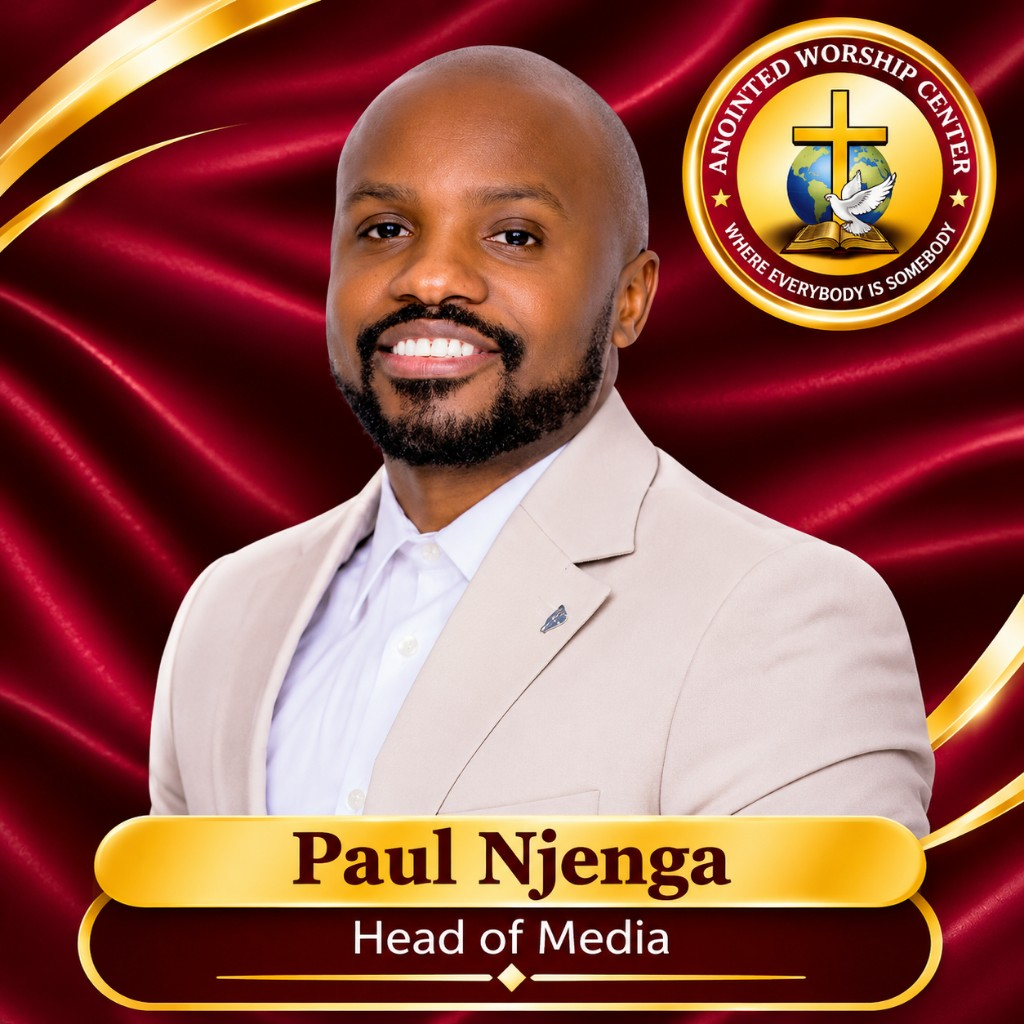
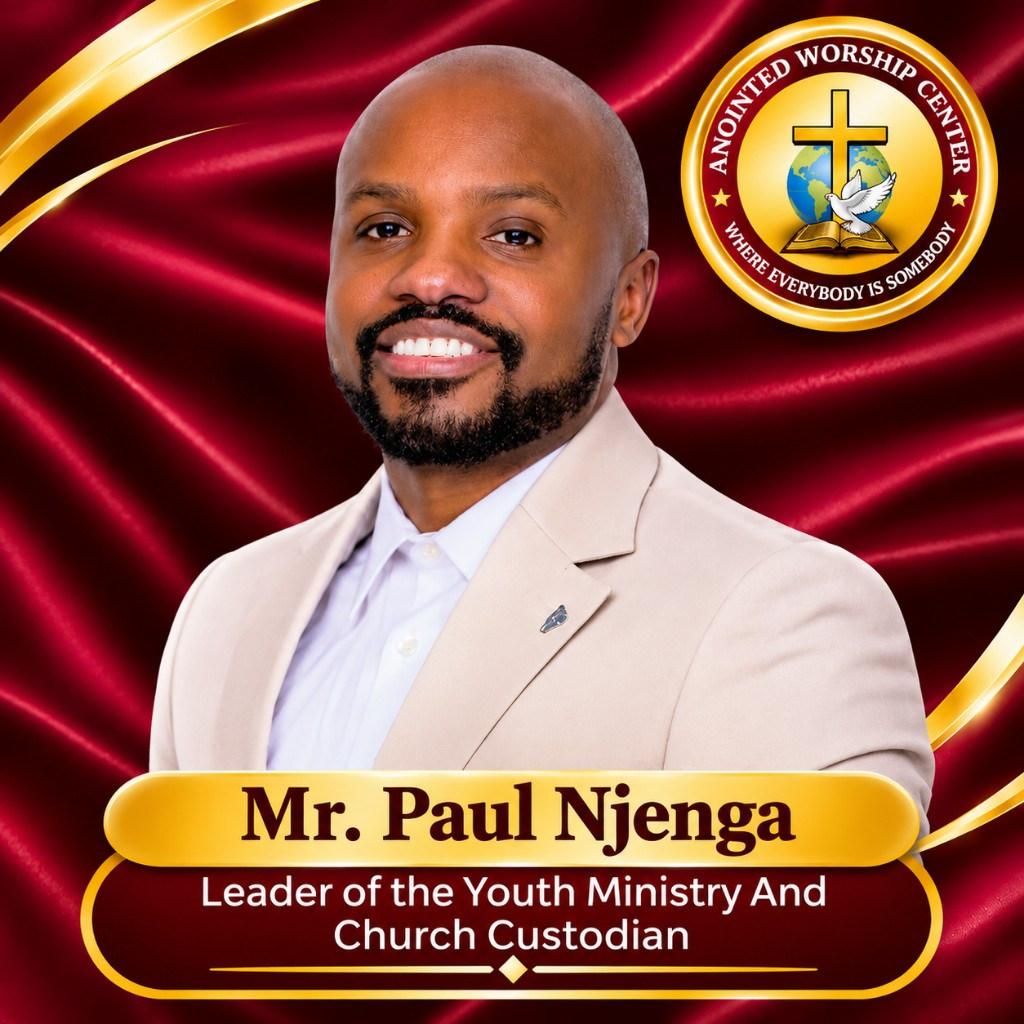
Fix Paul Njenga portrait and add Sarah Bogere to Ministry Leaders.
Replace Paul's incorrect Head of Media graphic with his Youth Ministry
and Church Custodian portrait, and add Mrs. Sarah Bogere as Head of
Mount Moriah Prayer Altar.

diff --git a/src/pages/public/Ministries.tsx b/src/pages/public/Ministries.tsx
@@ -75,7 +75,7 @@ const MINISTRY_TEAM: TeamMember[] = [
   },
   {
     name: "Mr. Paul Njenga",
-    role: "Head of Media",
+    role: "Leader of the Youth Ministry · Church Custodian",
     imageUrl: "/images/leadership/paul-njenga.jpg",
     branded: true,
   },
@@ -125,6 +125,12 @@ const MINISTRY_TEAM: TeamMember[] = [
     name: "Mr. Nathan Tendo",
     role: "Assistant Head of the Singles Ministry",
     imageUrl: "/images/leadership/nathan-tendo.jpg",
+    branded: true,
+  },
+  {
+    name: "Mrs. Sarah Bogere",
+    role: "Head of Mount Moriah Prayer Altar",
+    imageUrl: "/images/leadership/sarah-bogere.jpg",
     branded: true,
   },
   {
